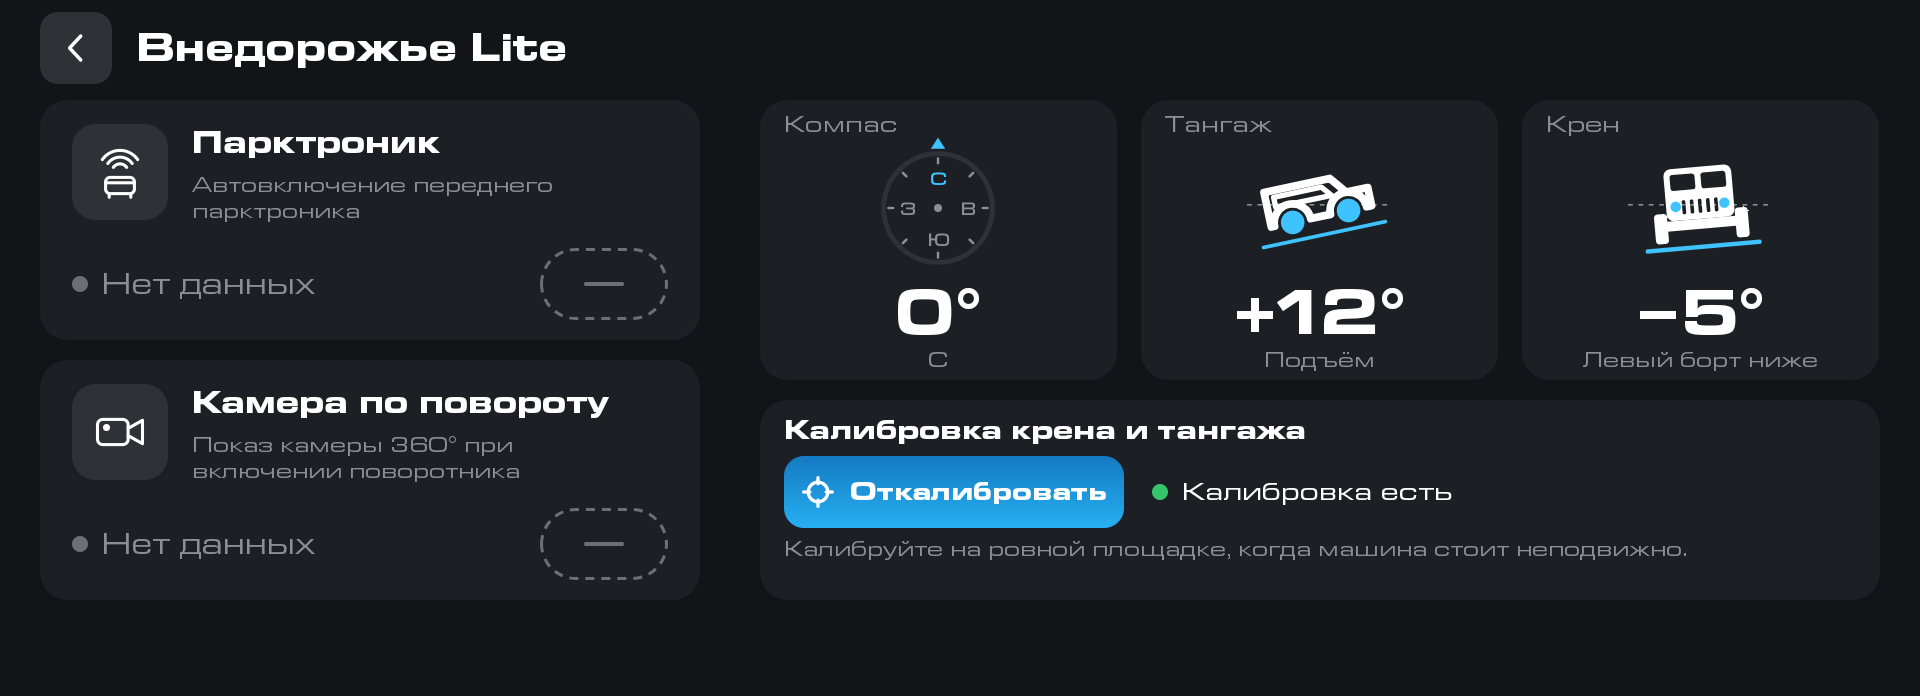
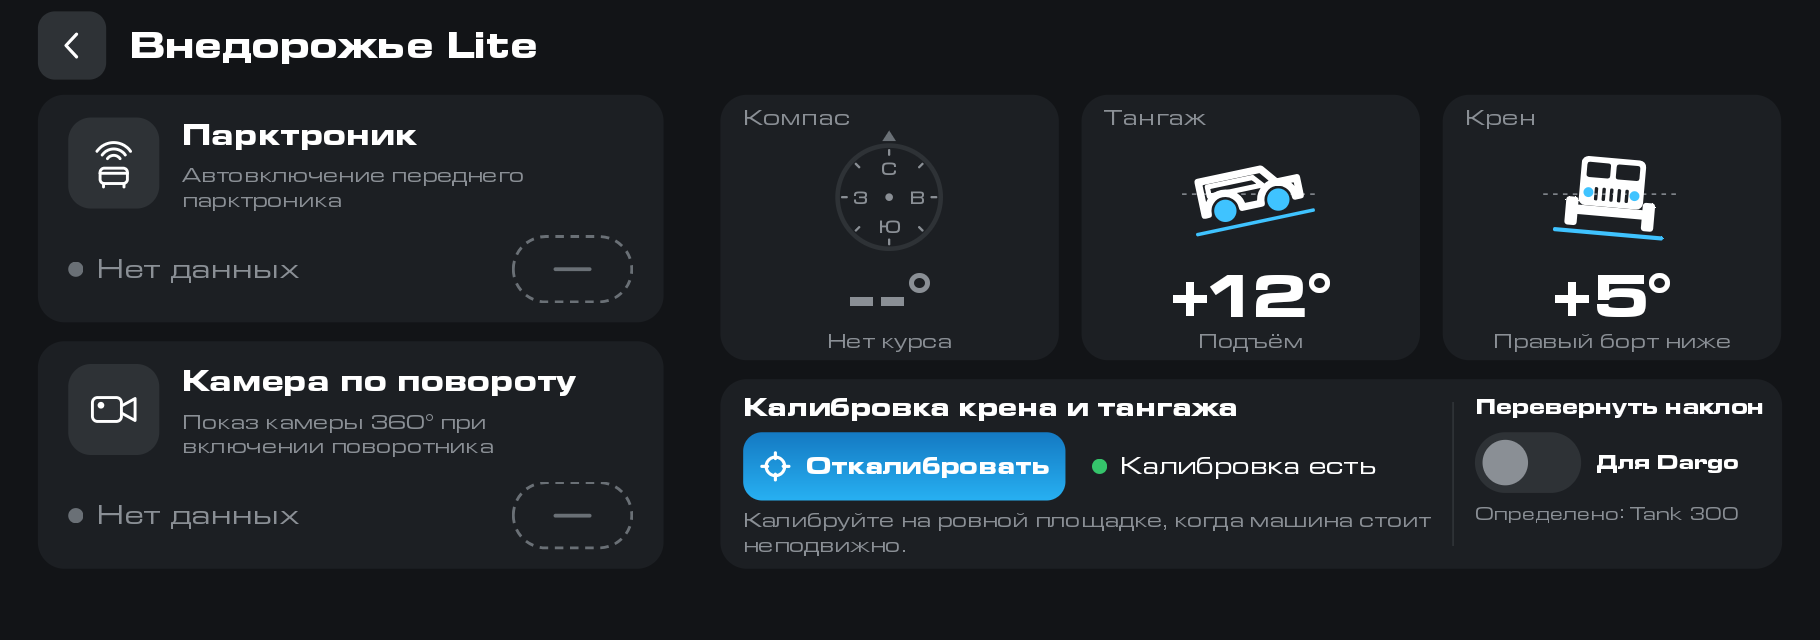
Витрина: Внедорожье Lite 0.1.1

diff --git a/offroad-lite/README.md b/offroad-lite/README.md
@@ -10,7 +10,7 @@
 
 ![Окно «Внедорожье Lite»: кнопки, компас, тангаж и крен](main.png)
 
-<sub>Снимки с эмулятора. Тангаж и крен подставные. Компас показывает 0° С: курс GPS эмулятора всегда нулевой, настоящий курс есть только на ГУ. Службы камеры на эмуляторе нет, поэтому кнопки показывают «Нет данных».</sub>
+<sub>Снимки с эмулятора. Тангаж и крен подставные. Курса на эмуляторе нет, поэтому компас показывает «--°», настоящий курс бывает только на ГУ. Службы камеры на эмуляторе нет, поэтому кнопки показывают «Нет данных».</sub>
 
 - «Парктроник» включает и выключает автовключение переднего парктроника.
 - «Камера по повороту» включает и выключает показ камеры 360° при включении поворотника. Та же настройка включает камеру и при простом повороте руля.
@@ -22,6 +22,8 @@
 ## Калибровка
 
 Откалибровать тангаж и крен нужно один раз, на ровной площадке, при стоящей машине: нажмите «Откалибровать». Приложение усредняет показания за две секунды. Если машина двигалась, калибровку оно не примет и напишет «Машина не стояла». Нулём станет тот наклон, который был при калибровке. Без калибровки тангаж и крен показываются как «--°».
+
+Направление наклона зависит от машины. На Tank 300 знак прямой, на Dargo обратный. Если на вашей машине подъём показывается как спуск, включите в карточке калибровки выключатель «Перевернуть наклон». Начальное значение ставит модель машины, ручной выбор запоминается.
 
 | Нет курса и калибровки | Идёт калибровка |
 |---|---|
@@ -37,12 +39,20 @@
 
 ## Совместимость
 
-Проверено на Tank 300 City с прошивкой GWM-club и на Haval Dargo со штатной прошивкой: компас, тангаж, крен, калибровка и обе кнопки работают. Tank 300 Part Time не проверялся. На плитке крена нарисован силуэт Tank 300, на Dargo он будет выглядеть иначе.
+Версия 0.1 проверена на Tank 300 City с прошивкой GWM-club и на Haval Dargo со штатной прошивкой: компас, тангаж, крен, калибровка и обе кнопки работают. Выключатель «Перевернуть наклон» и подгонку по ширине окна GWM-club проверяли на эмуляторе, на машинах ещё нет. Tank 300 Part Time не проверялся. На плитке крена нарисован силуэт Tank 300, на Dargo он будет выглядеть иначе.
 
 ## Версии
 
 <!-- versions -->
-Актуальная версия — **0.1** от 29.10.2026: [offroad-lite-0.1.apk](https://github.com/theKomix/gwm-apps/releases/download/offroad-lite-v0.1/offroad-lite-0.1.apk), [описание релиза](https://github.com/theKomix/gwm-apps/releases/tag/offroad-lite-v0.1).
+Актуальная версия — **0.1.1** от 30.10.2026: [offroad-lite-0.1.1.apk](https://github.com/theKomix/gwm-apps/releases/download/offroad-lite-v0.1.1/offroad-lite-0.1.1.apk), [описание релиза](https://github.com/theKomix/gwm-apps/releases/tag/offroad-lite-v0.1.1).
+
+- Направление тангажа и крена зависит от машины. На Tank 300 знак прямой, на Dargo обратный, а в 0.1 он был обратным у всех. В карточке калибровки появился выключатель «Перевернуть наклон» («Для Dargo»). Начальное значение ставит модель машины, ручной выбор запоминается.
+- Окно приложения на GWM-club уже экрана: слева боковая рейка, сверху строка состояния, и правый край обрезался. Теперь экран уменьшается по ширине окна.
+
+Предыдущие версии:
+
+<details>
+<summary>0.1 от 29.10.2026</summary>
 
 - Компас показывает курс по GPS и сторону света. Стоя на месте GPS курса не даёт, тогда вместо него «--°».
 - Тангаж (подъём и спуск) и крен считаются по акселерометру. Экран совпадает с наклоном машины. Нужна калибровка: на ровной площадке, при стоящей машине, кнопкой «Откалибровать». Если машина двигалась, приложение калибровку не принимает.
@@ -50,6 +60,10 @@
 - Кнопки слева, под рукой водителя. Компас, тангаж, крен и калибровка справа.
 - Датчики включены, только пока окно открыто. Своей службы нет, в фоне приложение ничего не читает.
 - Тема только тёмная.
+
+[offroad-lite-0.1.apk](https://github.com/theKomix/gwm-apps/releases/download/offroad-lite-v0.1/offroad-lite-0.1.apk), [описание релиза](https://github.com/theKomix/gwm-apps/releases/tag/offroad-lite-v0.1).
+
+</details>
 
 [Все версии и описания](https://github.com/theKomix/gwm-apps/releases?q=offroad-lite)
 <!-- /versions -->

diff --git a/README.md b/README.md
@@ -12,7 +12,7 @@
 | [GWM Comfort](comfort/README.md) | <!-- v:comfort --> [0.7.2](https://github.com/theKomix/gwm-apps/releases/tag/comfort-v0.7.2) <!-- /v --> | Сценарии комфорта: по запуску двигателя, дню и ночи, включению ГУ, пассажиру включает подогрев, вентиляцию, обогрев, меняет яркость и источник звука |
 | [GWM Install](gwm-install/README.md) | <!-- v:gwm-install --> [0.2.1](https://github.com/theKomix/gwm-apps/releases/tag/gwm-install-v0.2.1) <!-- /v --> | Ставит APK на ГУ с телефона по Wi-Fi, в том числе на штатных прошивках: кабель нужен один раз, для самого менеджера |
 | [Внедорожье](offroad/README.md) | <!-- v:offroad --> [0.1.2](https://github.com/theKomix/gwm-apps/releases/tag/offroad-v0.1.2) <!-- /v --> | Виджет для прошивки GWM-club: кнопки автовключения парктроника и камеры по повороту, данные шин и режимы движения |
-| [Внедорожье Lite](offroad-lite/README.md) | <!-- v:offroad-lite --> [0.1](https://github.com/theKomix/gwm-apps/releases/tag/offroad-lite-v0.1) <!-- /v --> | Те же две кнопки, компас, тангаж и крен в отдельном окне, для штатной прошивки |
+| [Внедорожье Lite](offroad-lite/README.md) | <!-- v:offroad-lite --> [0.1.1](https://github.com/theKomix/gwm-apps/releases/tag/offroad-lite-v0.1.1) <!-- /v --> | Те же две кнопки, компас, тангаж и крен в отдельном окне, для штатной прошивки |
 
 ## Общее для всех
 
